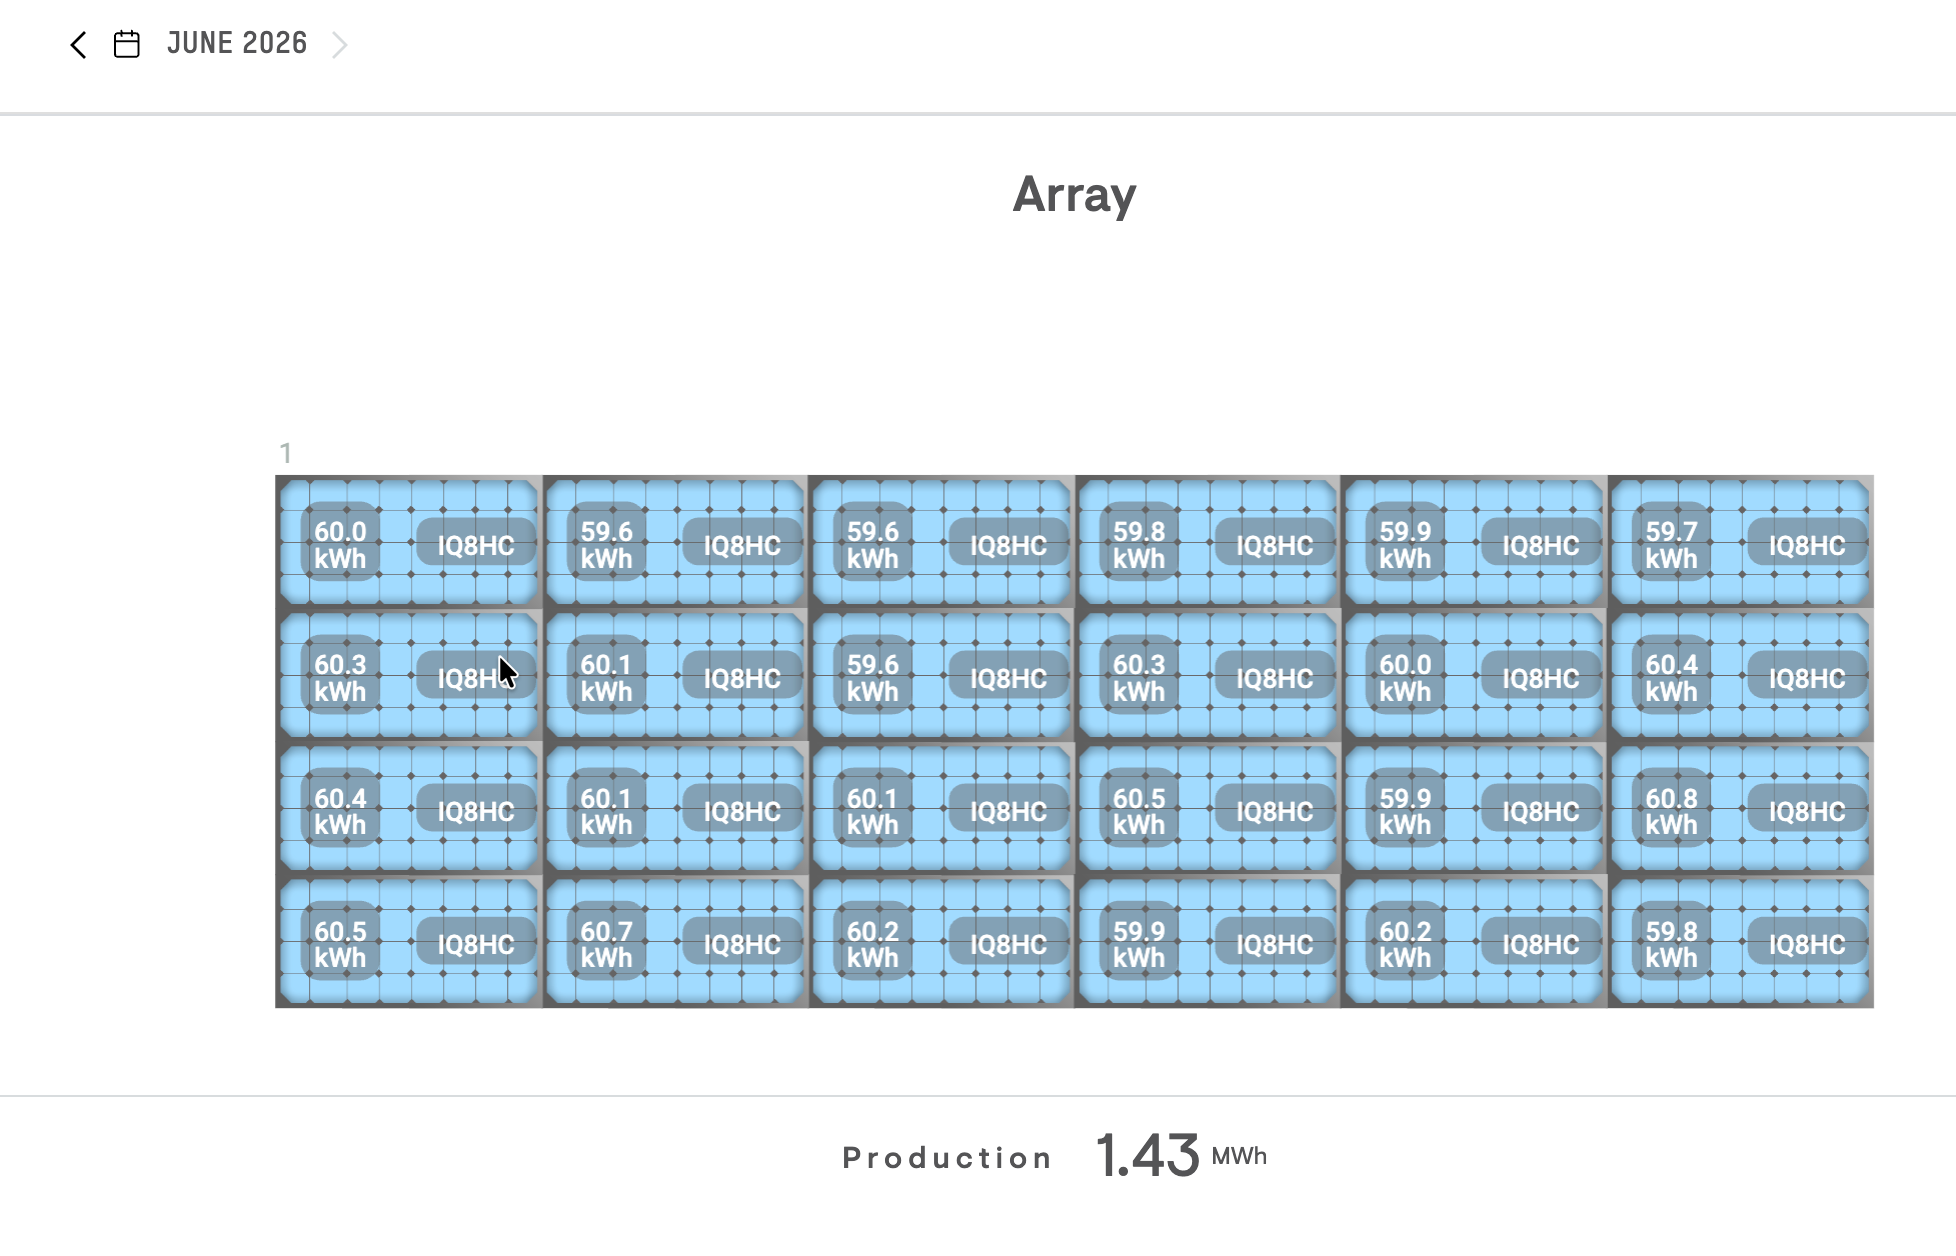
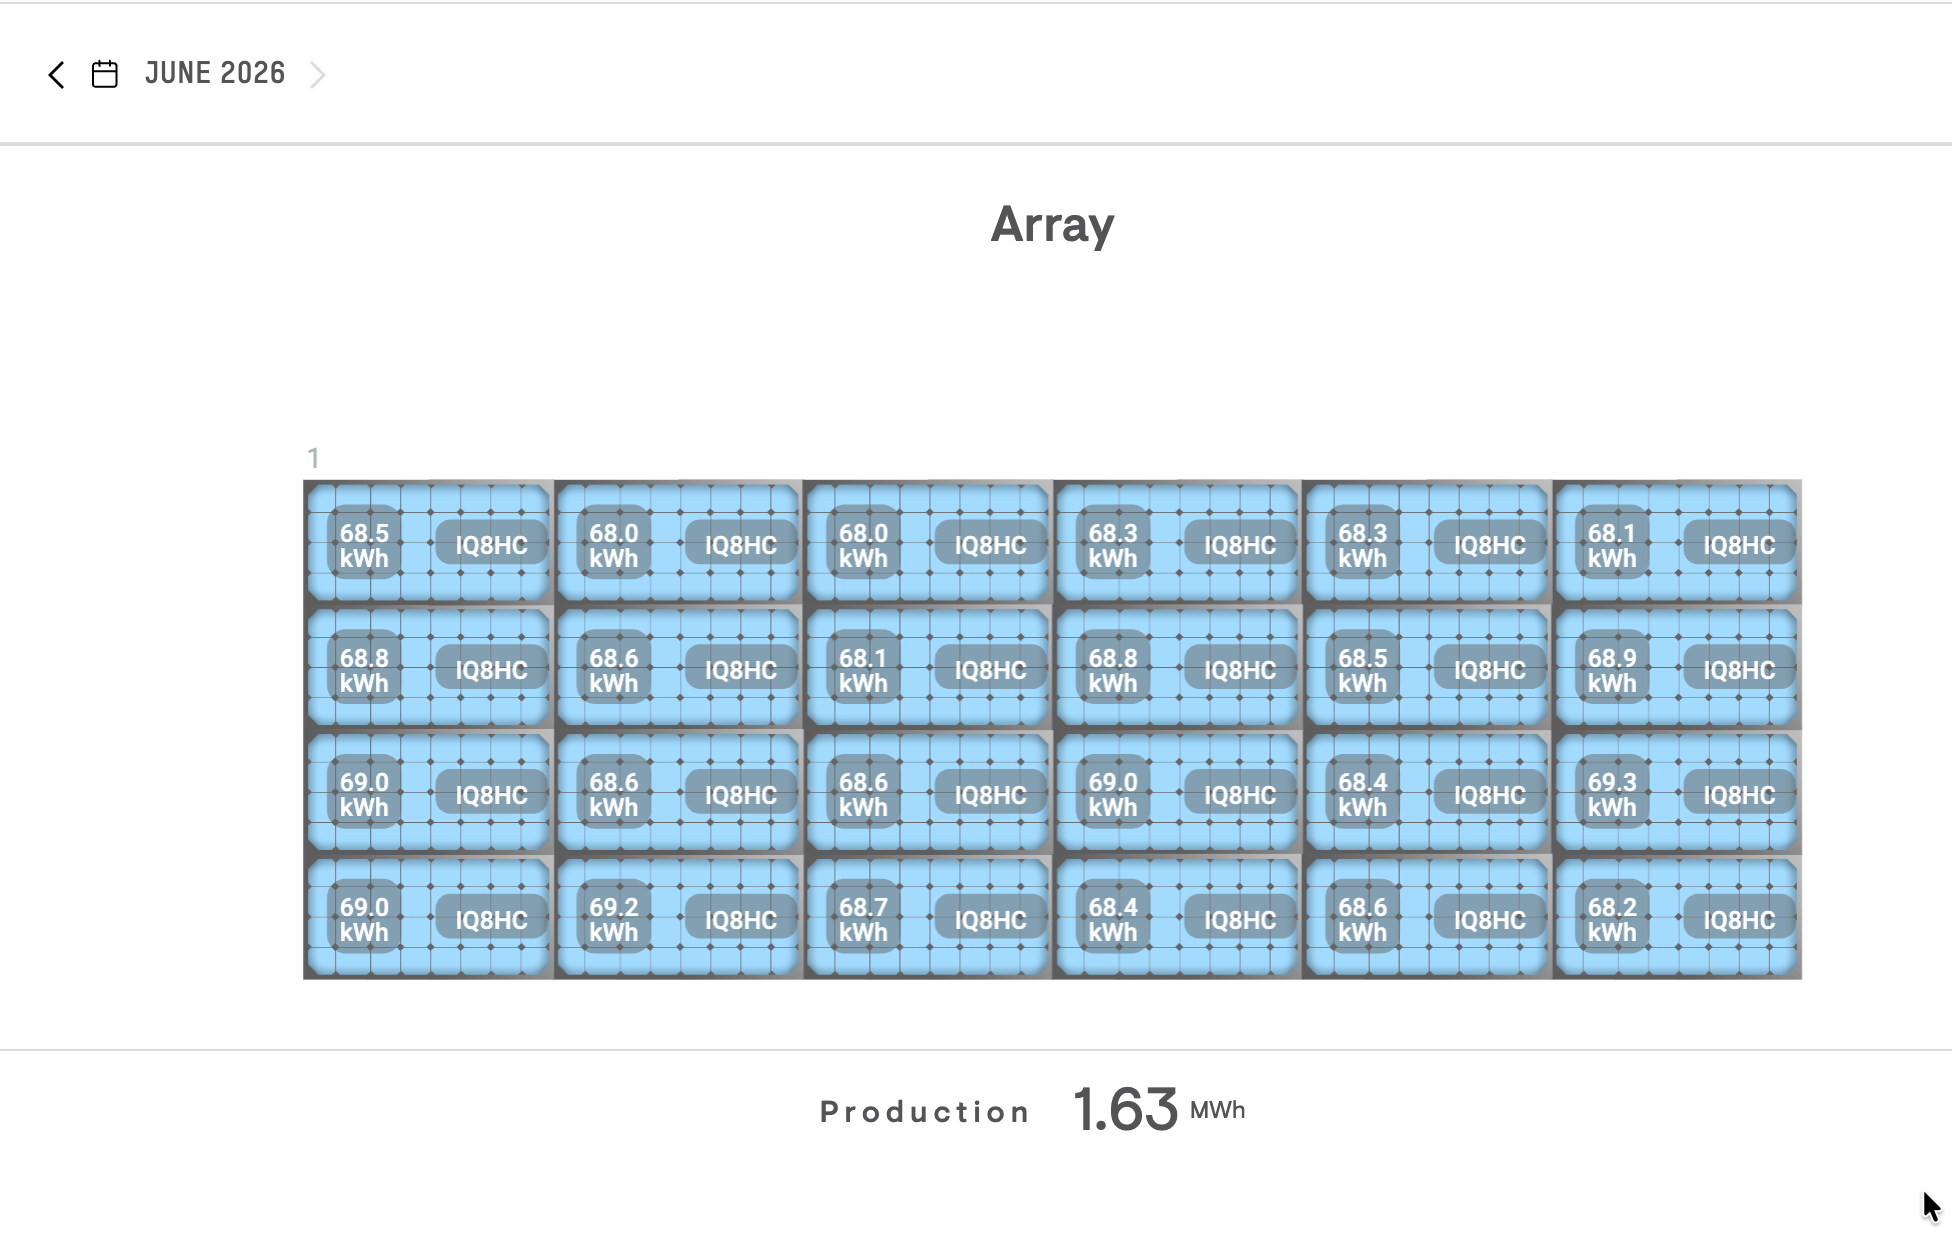
Refactor: Clean up, optimize, and enhance security rules and functions across Firebase projects

diff --git a/hometools/functions/src/index.ts b/hometools/functions/src/index.ts
@@ -4,11 +4,8 @@ import { GoogleGenerativeAI } from "@google/generative-ai";
 
 initializeApp();
 
-const geminiApiKey = process.env.GEMINI_API_KEY || "";
-const ai = new GoogleGenerativeAI(geminiApiKey);
-
 // 1. Multimodal AI Generation Function (Gemini API Integration)
-export const generateAiContent = onCall({ cors: true }, async (request) => {
+export const generateAiContent = onCall({ cors: true, secrets: ["GEMINI_API_KEY"] }, async (request) => {
   if (!request.auth) {
     throw new HttpsError("unauthenticated", "User must be authenticated.");
   }
@@ -21,6 +18,8 @@ export const generateAiContent = onCall({ cors: true }, async (request) => {
   };
 
   try {
+    const geminiApiKey = process.env.GEMINI_API_KEY || "";
+    const ai = new GoogleGenerativeAI(geminiApiKey);
     const model = ai.getGenerativeModel({ model: "gemini-3.1-flash-lite" });
     const parts: any[] = [{ text: prompt }];
 

diff --git a/hometools/functions/lib/index.js b/hometools/functions/lib/index.js
@@ -5,15 +5,15 @@ const https_1 = require("firebase-functions/v2/https");
 const app_1 = require("firebase-admin/app");
 const generative_ai_1 = require("@google/generative-ai");
 (0, app_1.initializeApp)();
-const geminiApiKey = process.env.GEMINI_API_KEY || "";
-const ai = new generative_ai_1.GoogleGenerativeAI(geminiApiKey);
 // 1. Multimodal AI Generation Function (Gemini API Integration)
-exports.generateAiContent = (0, https_1.onCall)({ cors: true }, async (request) => {
+exports.generateAiContent = (0, https_1.onCall)({ cors: true, secrets: ["GEMINI_API_KEY"] }, async (request) => {
     if (!request.auth) {
         throw new https_1.HttpsError("unauthenticated", "User must be authenticated.");
     }
     const { prompt, imageData, responseMimeType, responseSchema } = request.data;
     try {
+        const geminiApiKey = process.env.GEMINI_API_KEY || "";
+        const ai = new generative_ai_1.GoogleGenerativeAI(geminiApiKey);
         const model = ai.getGenerativeModel({ model: "gemini-3.1-flash-lite" });
         const parts = [{ text: prompt }];
         if (imageData && imageData.base64) {